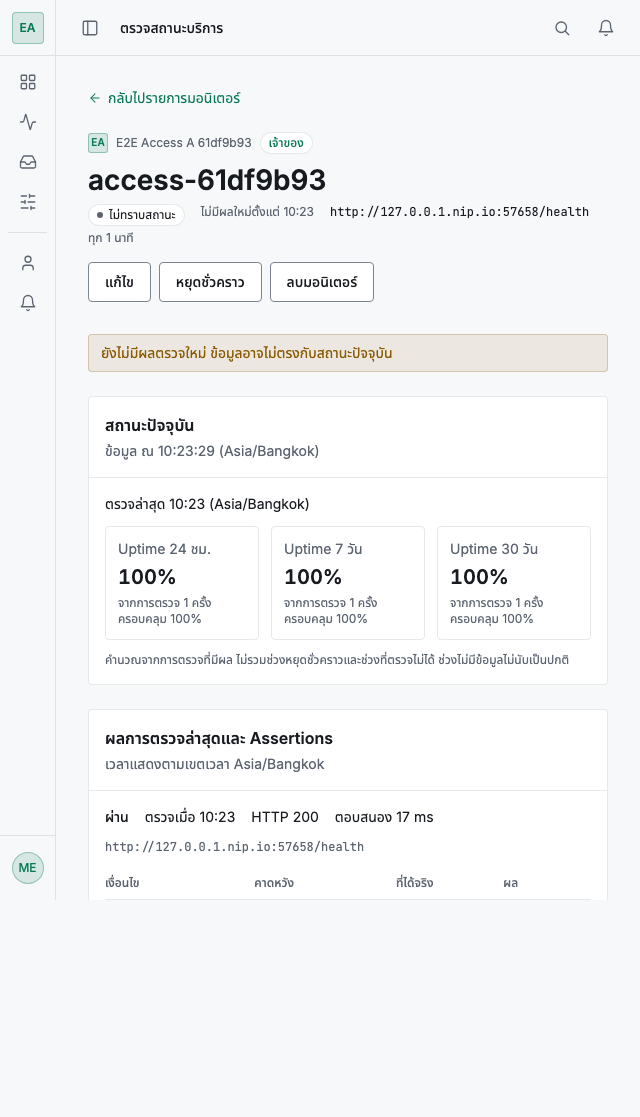
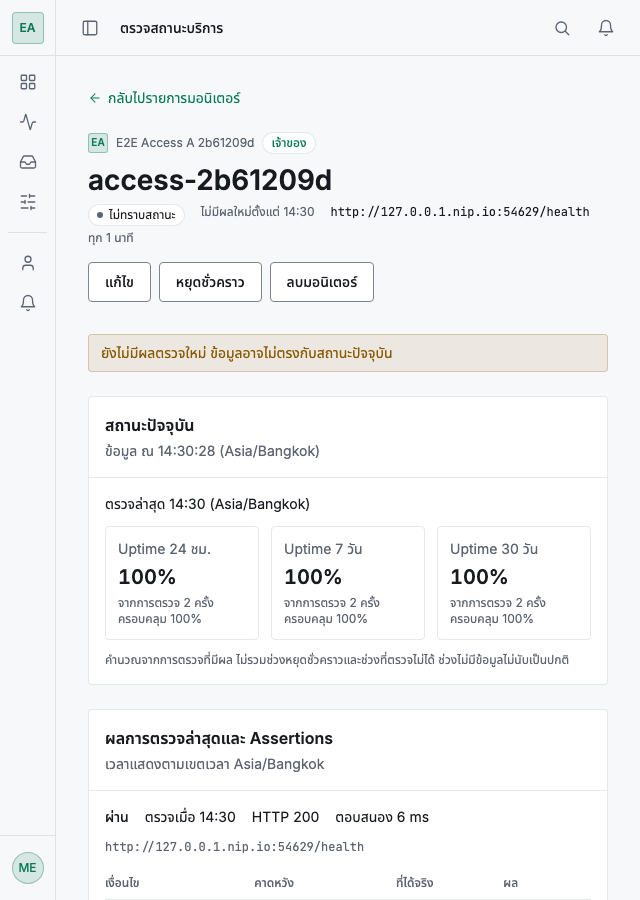
docs: add 1440x900 screenshots and the e2e run at 1f9975f
Screenshots only change the evidence folder; no application or test code.

Claude-Session: https://claude.ai/code/session_017AQ5NgyqCiMqqXU26LujH9

diff --git a/docs/features/F-005-uptime-monitor/verification.md b/docs/features/F-005-uptime-monitor/verification.md
@@ -44,6 +44,7 @@ Stack: API, Worker with roles `consumer,scheduler,monitor-scheduler,monitor-chec
 | Command | Result | Evidence |
 | --- | --- | --- |
 | `bun run e2e` (all specs, no stack running, `OUTBOUND_TEST_ALLOWED_HOSTS=127.0.0.1.nip.io`) at `1e5a150` | passed: 56 passed, 4 skipped, 3.6 min | `verification/e2e-1e5a150.log` |
+| `bun run e2e` (all specs) at `1f9975f` (freeze HEAD `c3c2e4f` plus the 1440 x 900 screenshot helper) on a temporary stack | passed: 56 passed, 4 skipped, 3.7 min. This run also produced the screenshots | `verification/e2e-1f9975f.log` |
 | `monitors-access.spec.ts` + `monitors-states.spec.ts` + `monitors.spec.ts` at `dc01280` on a temporary stack (run A) | access 18 passed, states 18 passed, `monitors.spec.ts` test 1 failed (a listener counted a scheduled check as the Test request; the assertion was narrowed to the probe query), 7 did not run; 36 passed, 2.6 min | `verification/e2e-dc01280-run-a.log` |
 | `monitors.spec.ts` at `dc01280`+ working tree (narrowed assertion) on the same stack (run B) | passed: 8 of 8, 3.7 min (all 8 tests, including the down and recovered flow) | `verification/e2e-dc01280-run-b.log` |
 | `bun e2e/verification/api-matrix.ts` (scenarios matrix, ssrf, secrets, ratelimit, concurrency) | passed: 211 checks, 0 failed | `verification/api-matrix.log` |
@@ -181,6 +182,8 @@ Also not covered by any run here: contrast of the status pills (design review), 
 - A false defect report (Resume showing "ปกติ") was sent and withdrawn: the new pass arrived within seconds of Resume.
 
 ## Screenshots
+
+Desktop shots are 1440 x 900 and were taken by the `1f9975f` run; the reflow shots are 640 x 900.
 
 `overview-light.png`, `overview-dark.png`, `detail-light.png`, `detail-dark.png`, `form-test-result-light.png`, `form-test-result-dark.png`, `edit-secret-set.png` (Edit before Replace), `edit-secret-replace-open.png` (Edit after pressing "แทนที่"), and the 640 px reflow set `reflow-640-light-overview.png`, `reflow-640-light-detail.png`, `reflow-640-light-new.png`, `reflow-640-light-edit.png`, `reflow-640-dark-detail.png`. All sit in `docs/features/F-005-uptime-monitor/verification/`. They were taken by the spec runs with `VERIFY_SHOTS_DIR` set.
 
